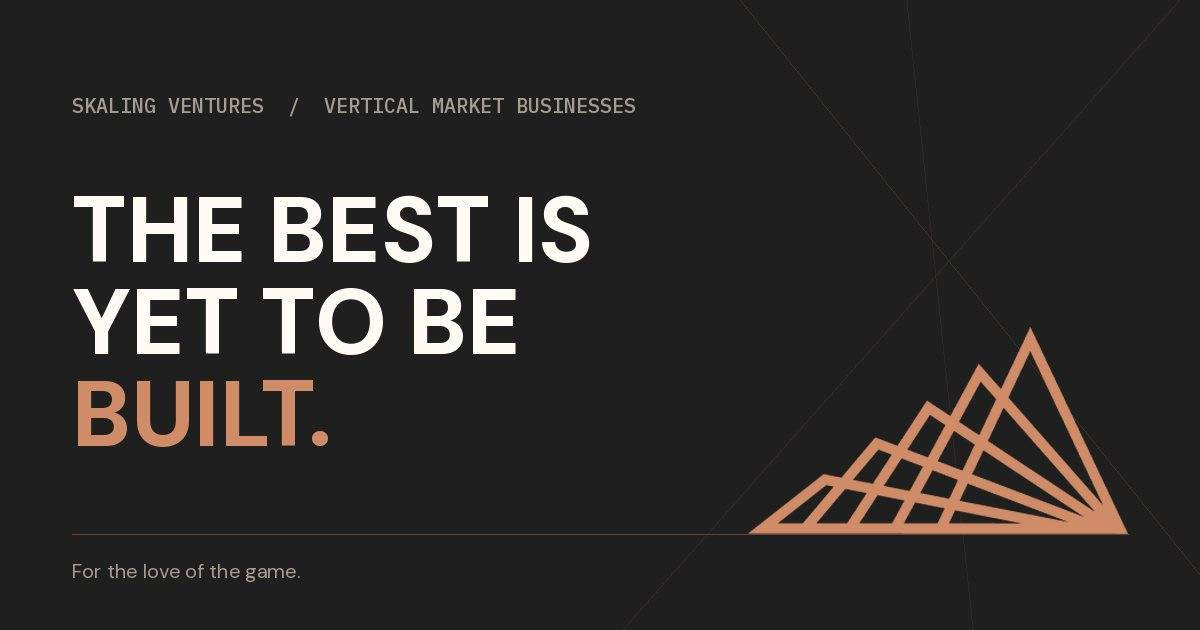
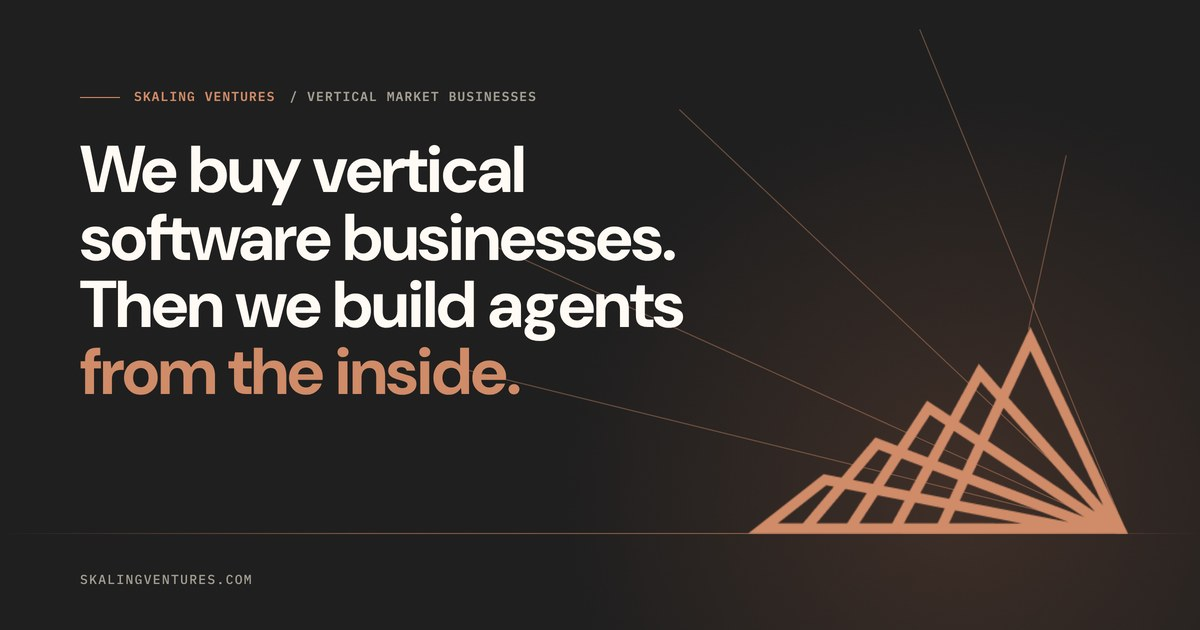
Hero: 'We buy vertical software businesses. Then we build agents from the inside.'; retire 'The best is yet to be built' from the site; new link preview
Claude-Session: https://claude.ai/code/session_01CSN2PRgKmv2JVp3WejDtAN

diff --git a/index.html b/index.html
@@ -3,13 +3,13 @@
 <head>
 <meta charset="utf-8">
 <meta name="viewport" content="width=device-width, initial-scale=1, viewport-fit=cover">
-<title>Skaling Ventures — The best is yet to be built</title>
+<title>Skaling Ventures — We buy vertical software businesses. Then we build agents from the inside.</title>
 <meta name="description" content="Skaling Ventures buys software businesses serving specialized industries, then builds on what their founders have already earned.">
 <link rel="canonical" href="https://www.skalingventures.com/">
 <meta name="theme-color" content="#1F1F1F">
 <meta property="og:type" content="website">
 <meta property="og:site_name" content="Skaling Ventures">
-<meta property="og:title" content="Skaling Ventures — The best is yet to be built">
+<meta property="og:title" content="Skaling Ventures — We buy vertical software businesses. Then we build agents from the inside.">
 <meta property="og:description" content="We buy software businesses serving specialized industries, then build on what their founders have already earned.">
 <meta property="og:url" content="https://www.skalingventures.com/">
 <meta property="og:image" content="https://www.skalingventures.com/og.jpg">
@@ -102,7 +102,9 @@ a:hover{color:inherit}
 .construct{position:absolute;right:0;bottom:0;width:100%;max-width:520px;overflow:visible;pointer-events:none}
 .construct path{fill:none;stroke:#D08B68;stroke-width:1;vector-effect:non-scaling-stroke;stroke-dasharray:1;stroke-dashoffset:1;animation:drawline 2.4s cubic-bezier(.65,0,.35,1) both}
 .horizon{height:1px;background:linear-gradient(90deg,rgba(208,139,104,0),rgba(208,139,104,.6));margin-top:-1px;transform-origin:right;animation:draw 1.8s cubic-bezier(.65,0,.35,1) .1s both}
-.h1{margin:0;font-family:'DM Sans',system-ui,sans-serif;font-weight:800;text-transform:uppercase;letter-spacing:.005em;font-size:clamp(2.9rem,7.4vw,6.9rem);line-height:.93;color:#FFFAF4;text-wrap:balance}
+.h1{margin:0;font-family:'DM Sans',system-ui,sans-serif;font-weight:700;letter-spacing:-.025em;font-size:clamp(2.4rem,4.5vw,3.65rem);line-height:1.02;color:#FFFAF4}
+.h1-line{display:block;text-wrap:balance}
+.h1-line+.h1-line{margin-top:.08em}
 .w{display:inline-block;overflow:hidden;vertical-align:top;padding-bottom:.08em;margin-bottom:-.08em}
 .w>span{display:inline-block;animation:wordUp 1.15s cubic-bezier(.19,1,.22,1) both}
 .fade{animation:fadeUp 1s cubic-bezier(.19,1,.22,1) both}
@@ -374,7 +376,7 @@ html{scroll-behavior:auto}
 <span class="mark" style="width: 46px" aria-hidden="true"></span>
 <span class="hdr-word" style="white-space: nowrap; font: 300 12px/1 'DM Sans', system-ui, sans-serif; letter-spacing: .18em; text-transform: uppercase; color: #FFFAF4">Skaling Ventures</span>
 </a>
-<span class="hdr-status" aria-hidden="true"><span class="dot"></span><span id="secNum" style="color: #FFFAF4">01</span><span>/ 09</span><span style="color: #807E7A">·</span><span id="secLabel">The best is yet to be built</span></span>
+<span class="hdr-status" aria-hidden="true"><span class="dot"></span><span id="secNum" style="color: #FFFAF4">01</span><span>/ 09</span><span style="color: #807E7A">·</span><span id="secLabel">Built from the inside</span></span>
 </div>
 <nav class="nav" aria-label="Primary" style="display: flex; align-items: center; gap: 32px">
 <a href="#approach" data-nav="approach">Approach</a>
@@ -390,13 +392,13 @@ html{scroll-behavior:auto}
 <main id="main-content">
 
 <!-- ═════ 01 · HERO ═════ -->
-<section id="top" class="hero" data-sec="01" data-label="The best is yet to be built" aria-labelledby="hero-h">
+<section id="top" class="hero" data-sec="01" data-label="Built from the inside" aria-labelledby="hero-h">
 <div class="hero-glow" aria-hidden="true"></div>
 <div class="wrap" style="width: 100%; position: relative; z-index: 1">
 <div class="hero-grid">
 <div class="hero-copy" style="min-width: 0; padding-top: clamp(24px, 6vh, 72px); padding-bottom: clamp(24px, 6vh, 72px)">
 <p class="fade d1" style="margin: 0 0 clamp(24px, 4vh, 40px); font: 500 11.5px/1.7 'IBM Plex Mono', ui-monospace, monospace; letter-spacing: .08em; text-transform: uppercase; color: #A49E92; max-width: 36rem"><span style="color: #D08B68">Skaling Ventures</span> <span aria-hidden="true" style="color: #807E7A">/</span> Building the next generation of vertical market businesses</p>
-<h1 id="hero-h" class="h1" aria-label="The best is yet to be built."><span class="w" aria-hidden="true"><span style="animation-delay: .20s">The</span></span> <span class="w" aria-hidden="true"><span style="animation-delay: .27s">best</span></span> <span class="w" aria-hidden="true"><span style="animation-delay: .34s">is</span></span> <span class="w" aria-hidden="true"><span style="animation-delay: .41s">yet</span></span> <span class="w" aria-hidden="true"><span style="animation-delay: .48s">to</span></span> <span class="w" aria-hidden="true"><span style="animation-delay: .55s">be</span></span> <span class="w" aria-hidden="true"><span style="animation-delay: .66s; color: #D08B68">built.</span></span></h1>
+<h1 id="hero-h" class="h1" aria-label="We buy vertical software businesses. Then we build agents from the inside."><span class="h1-line"><span class="w" aria-hidden="true"><span style="animation-delay: 0.20s">We</span></span> <span class="w" aria-hidden="true"><span style="animation-delay: 0.26s">buy</span></span> <span class="w" aria-hidden="true"><span style="animation-delay: 0.32s">vertical</span></span> <span class="w" aria-hidden="true"><span style="animation-delay: 0.38s">software</span></span> <span class="w" aria-hidden="true"><span style="animation-delay: 0.44s">businesses.</span></span></span> <span class="h1-line"><span class="w" aria-hidden="true"><span style="animation-delay: 0.50s">Then</span></span> <span class="w" aria-hidden="true"><span style="animation-delay: 0.56s">we</span></span> <span class="w" aria-hidden="true"><span style="animation-delay: 0.62s">build</span></span> <span class="w" aria-hidden="true"><span style="animation-delay: 0.68s">agents</span></span> <span class="w" aria-hidden="true"><span style="animation-delay: 0.74s; color: #D08B68">from</span></span> <span class="w" aria-hidden="true"><span style="animation-delay: 0.80s; color: #D08B68">the</span></span> <span class="w" aria-hidden="true"><span style="animation-delay: 0.86s; color: #D08B68">inside.</span></span></span></h1>
 <p class="fade d3" style="margin: clamp(24px, 4vh, 40px) 0 0; max-width: 36rem; font: 400 clamp(1.08rem, 1.5vw, 1.25rem)/1.6 'DM Sans', system-ui, sans-serif; color: #E8E2D8">We buy software businesses serving specialized industries, then build on what their founders have already earned: trusted relationships, an intimate understanding of the work, and products customers rely on.</p>
 <div class="fade d4" style="display: flex; flex-wrap: wrap; gap: 12px; margin-top: clamp(28px, 4.5vh, 44px)">
 <a class="btn btn-copper mag" href="#founders">For founders <span class="arr" aria-hidden="true">→</span></a>
